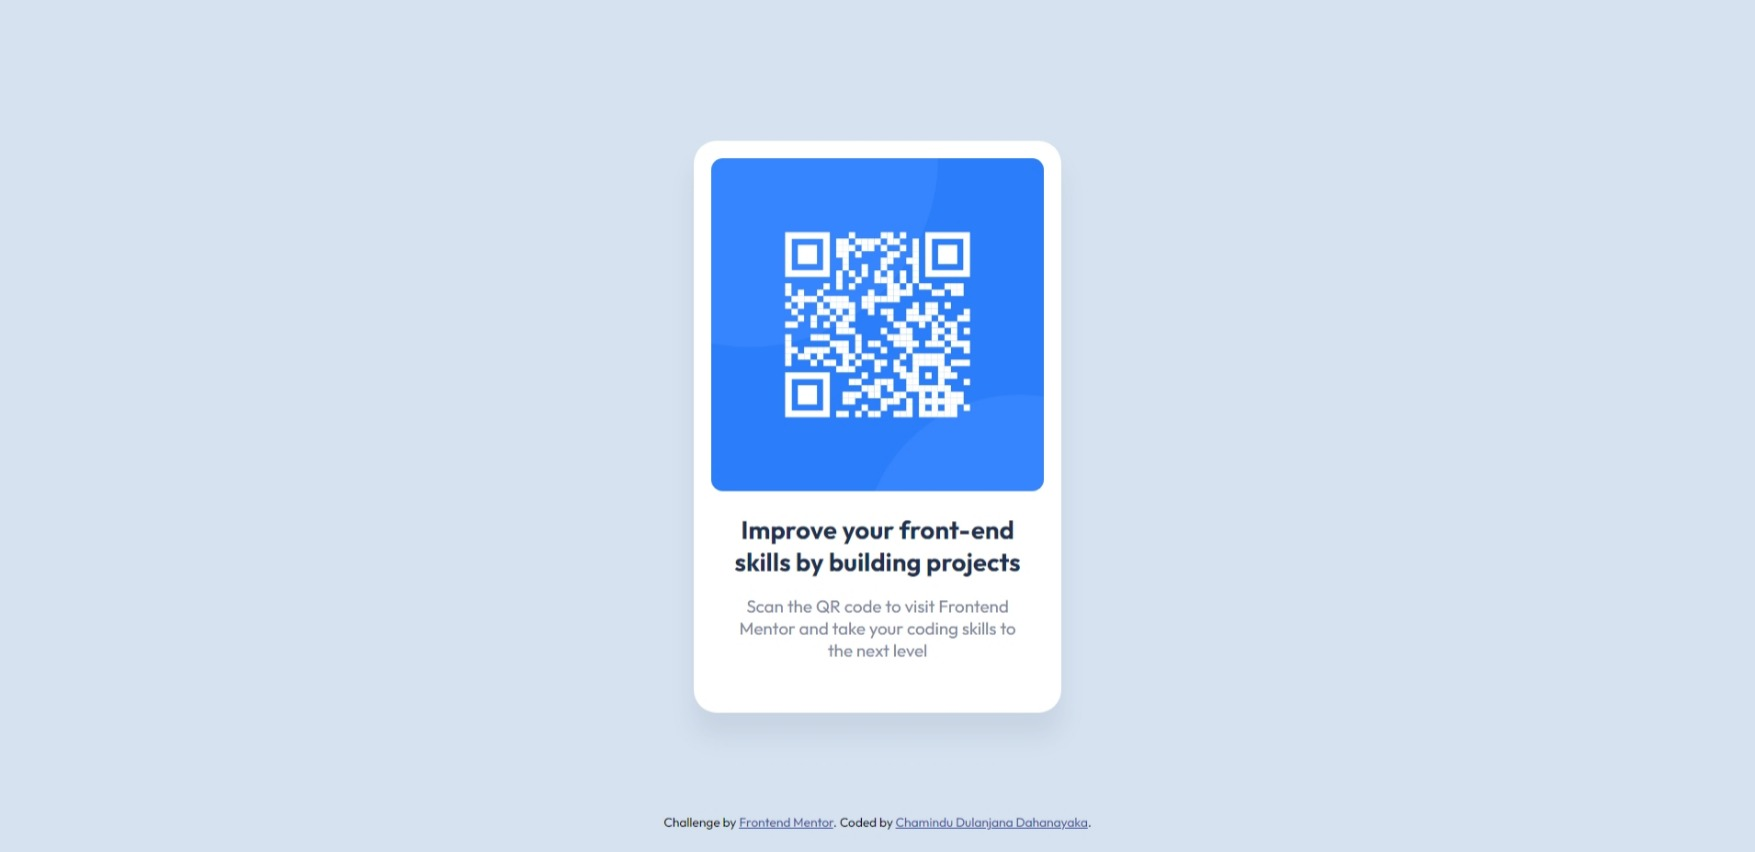
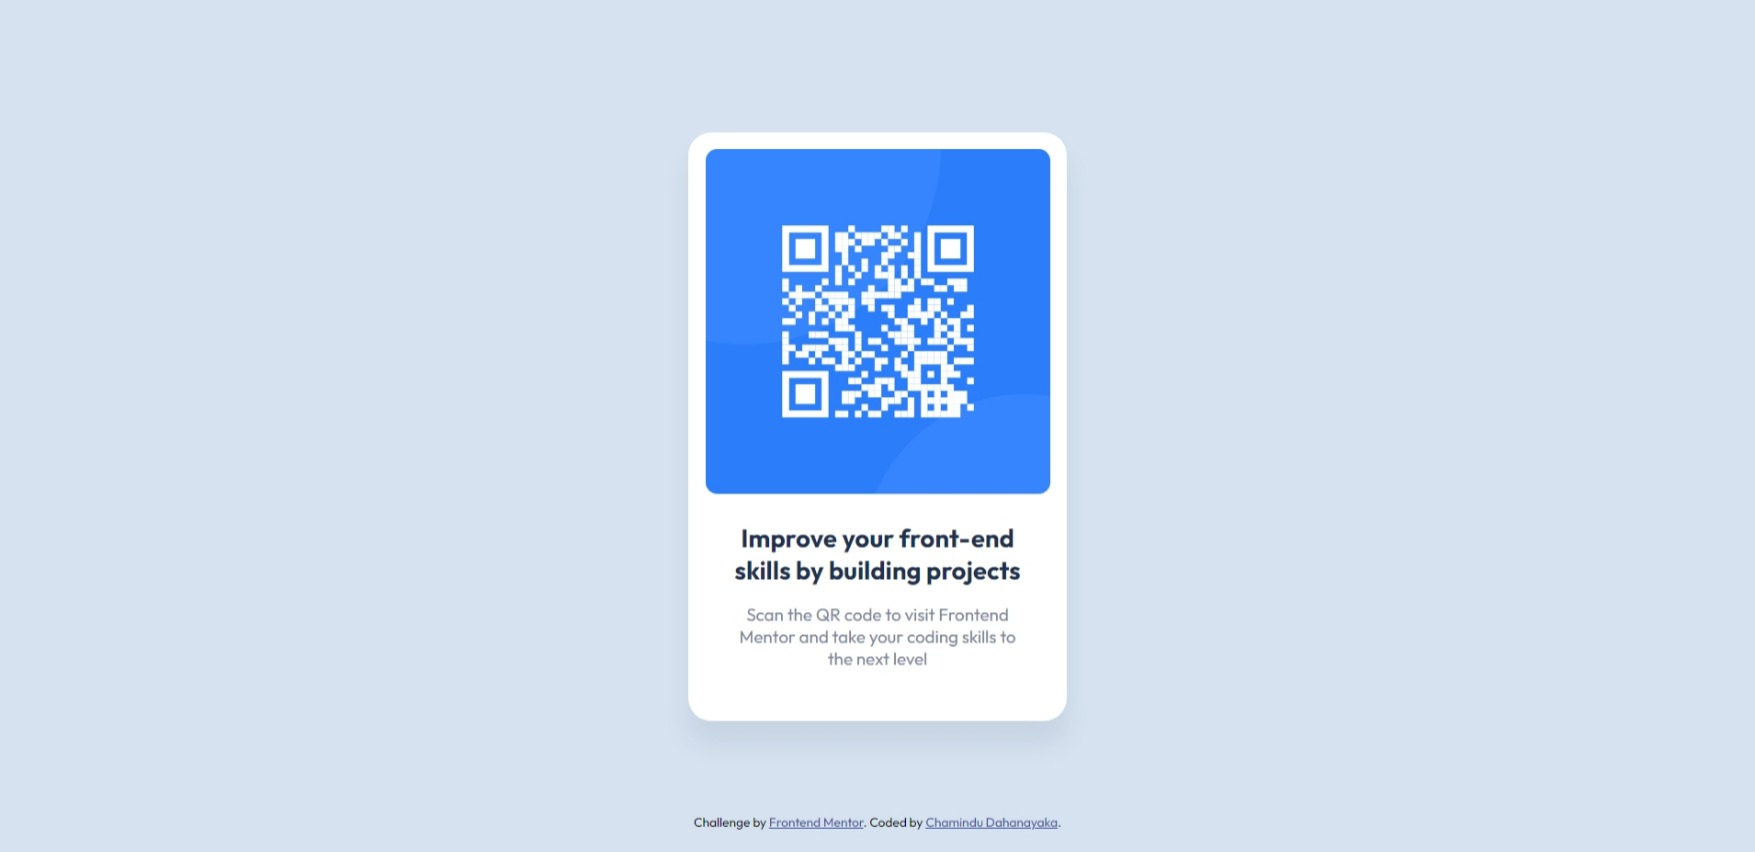
Fix img tag width

Changed region(s): [[0.3692, 0.1526, 0.6154, 0.8545], [0.3692, 0.946, 0.6154, 0.9765]]

diff --git a/index.html b/index.html
@@ -28,7 +28,7 @@
     .container{
       background-color: hsl(0, 0%, 100%);
       text-align: center;
-      width: 320px;
+      width: 330px;
       border-radius: 20px;
       padding: 15px;
       box-shadow: 0px 20px 20px hsla(219, 15%, 55%, 0.15);
@@ -37,10 +37,10 @@
       color: hsl(218, 44%, 22%);
       font-size: 22px;
       font-weight: 700;
-      margin-top: 15px;
+      margin-top: 20px;
       margin-bottom: 15px;
     }
-    #paragraph{
+    p{
       font-size: 15px;
       color: hsl(220, 15%, 55%);
       margin-left: 20px;
@@ -63,7 +63,7 @@
 </head>
 <body>
   <div class="container">
-    <img src="images/image-qr-code.png" alt="QR code image" height="290px" width="290px">
+    <img src="images/image-qr-code.png" alt="QR code image" width="300">
     <p id="title">Improve your front-end skills by building projects</p>
   
     <p id="paragraph">Scan the QR code to visit Frontend Mentor and take your coding skills to the next level</p>
@@ -71,7 +71,7 @@
   
   <div class="attribution">
     Challenge by <a href="https://www.frontendmentor.io?ref=challenge" target="_blank">Frontend Mentor</a>. 
-    Coded by <a href="#">Chamindu Dulanjana Dahanayaka</a>.
+    Coded by <a href="#">Chamindu Dahanayaka</a>.
   </div>
 </body>
 </html>
